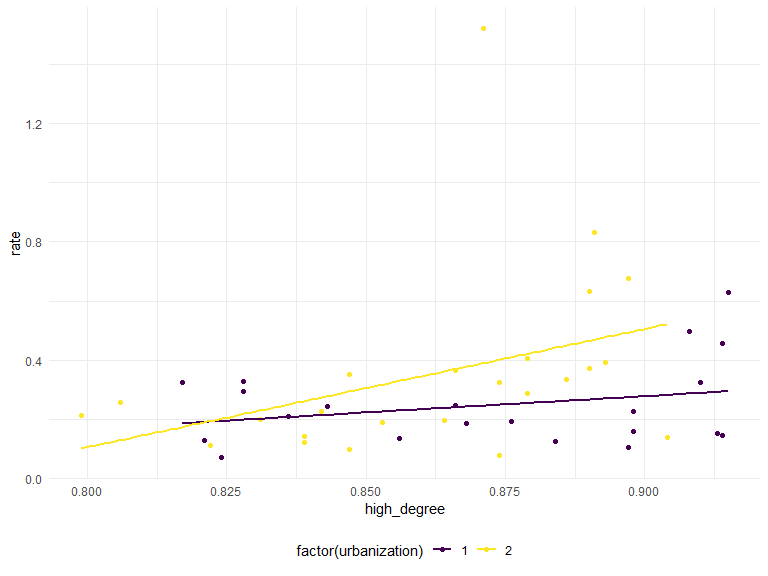
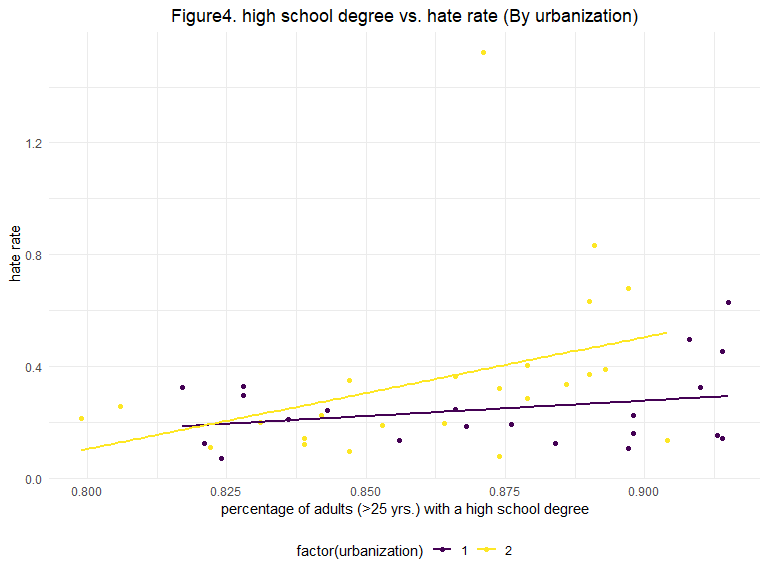
change graphs' name

diff --git a/P8130_Final_Project.md b/P8130_Final_Project.md
@@ -1054,7 +1054,11 @@ urbanization & high\_degree
 hc_df %>% 
   ggplot(aes(x = high_degree, y = rate, color = factor(urbanization))) +
   geom_point() +
-  stat_smooth(method = "lm", se = F)
+  stat_smooth(method = "lm", se = F) +
+  labs(title = "Figure4. high school degree vs. hate rate (By urbanization)",
+       x = "percentage of adults (>25 yrs.) with a high school degree",
+       y = " hate rate") +
+  theme(plot.title = element_text(hjust = .5 ))
 ```
 
     ## `geom_smooth()` using formula 'y ~ x'
@@ -1068,7 +1072,11 @@ urbanization & gini\_index
 hc_df %>% 
   ggplot(aes(x = gini_index, y = rate, color = factor(urbanization))) +
   geom_point() +
-  stat_smooth(method = "lm", se = F)
+  stat_smooth(method = "lm", se = F) +
+  labs(title = "Figure5. gini index vs. hate rate (By urbanization)",
+       x = "gini index",
+       y = " hate rate") +
+  theme(plot.title = element_text(hjust = .5 ))
 ```
 
     ## `geom_smooth()` using formula 'y ~ x'
@@ -1082,7 +1090,11 @@ unemployment & high\_degree
 hc_df %>% 
   ggplot(aes(x = high_degree, y = rate, color = factor(unemployment))) +
   geom_point() +
-  stat_smooth(method = "lm", se = F)
+  stat_smooth(method = "lm", se = F) +
+  labs(title = "Figure6. high school degree vs. hate rate (By unemployment)",
+       x = "percentage of adults (>25 yrs.) with a high school degree",
+       y = " hate rate") +
+  theme(plot.title = element_text(hjust = .5 ))
 ```
 
     ## `geom_smooth()` using formula 'y ~ x'
@@ -1096,7 +1108,11 @@ unemployment & gini
 hc_df %>% 
   ggplot(aes(x = gini_index, y = rate, color = factor(unemployment))) +
   geom_point() +
-  stat_smooth(method = "lm", se = F)
+  stat_smooth(method = "lm", se = F) +
+  labs(title = "Figure7. gini index vs. hate rate (By unemployment)",
+       x = "gini index",
+       y = " hate rate") +
+  theme(plot.title = element_text(hjust = .5 ))
 ```
 
     ## `geom_smooth()` using formula 'y ~ x'
@@ -1285,7 +1301,7 @@ cv_df %>%
 mean(cv_df$rmse_linear)
 ```
 
-    ## [1] 0.2210806
+    ## [1] 0.2095248
 
 ``` r
 model_summ = summary(model)
